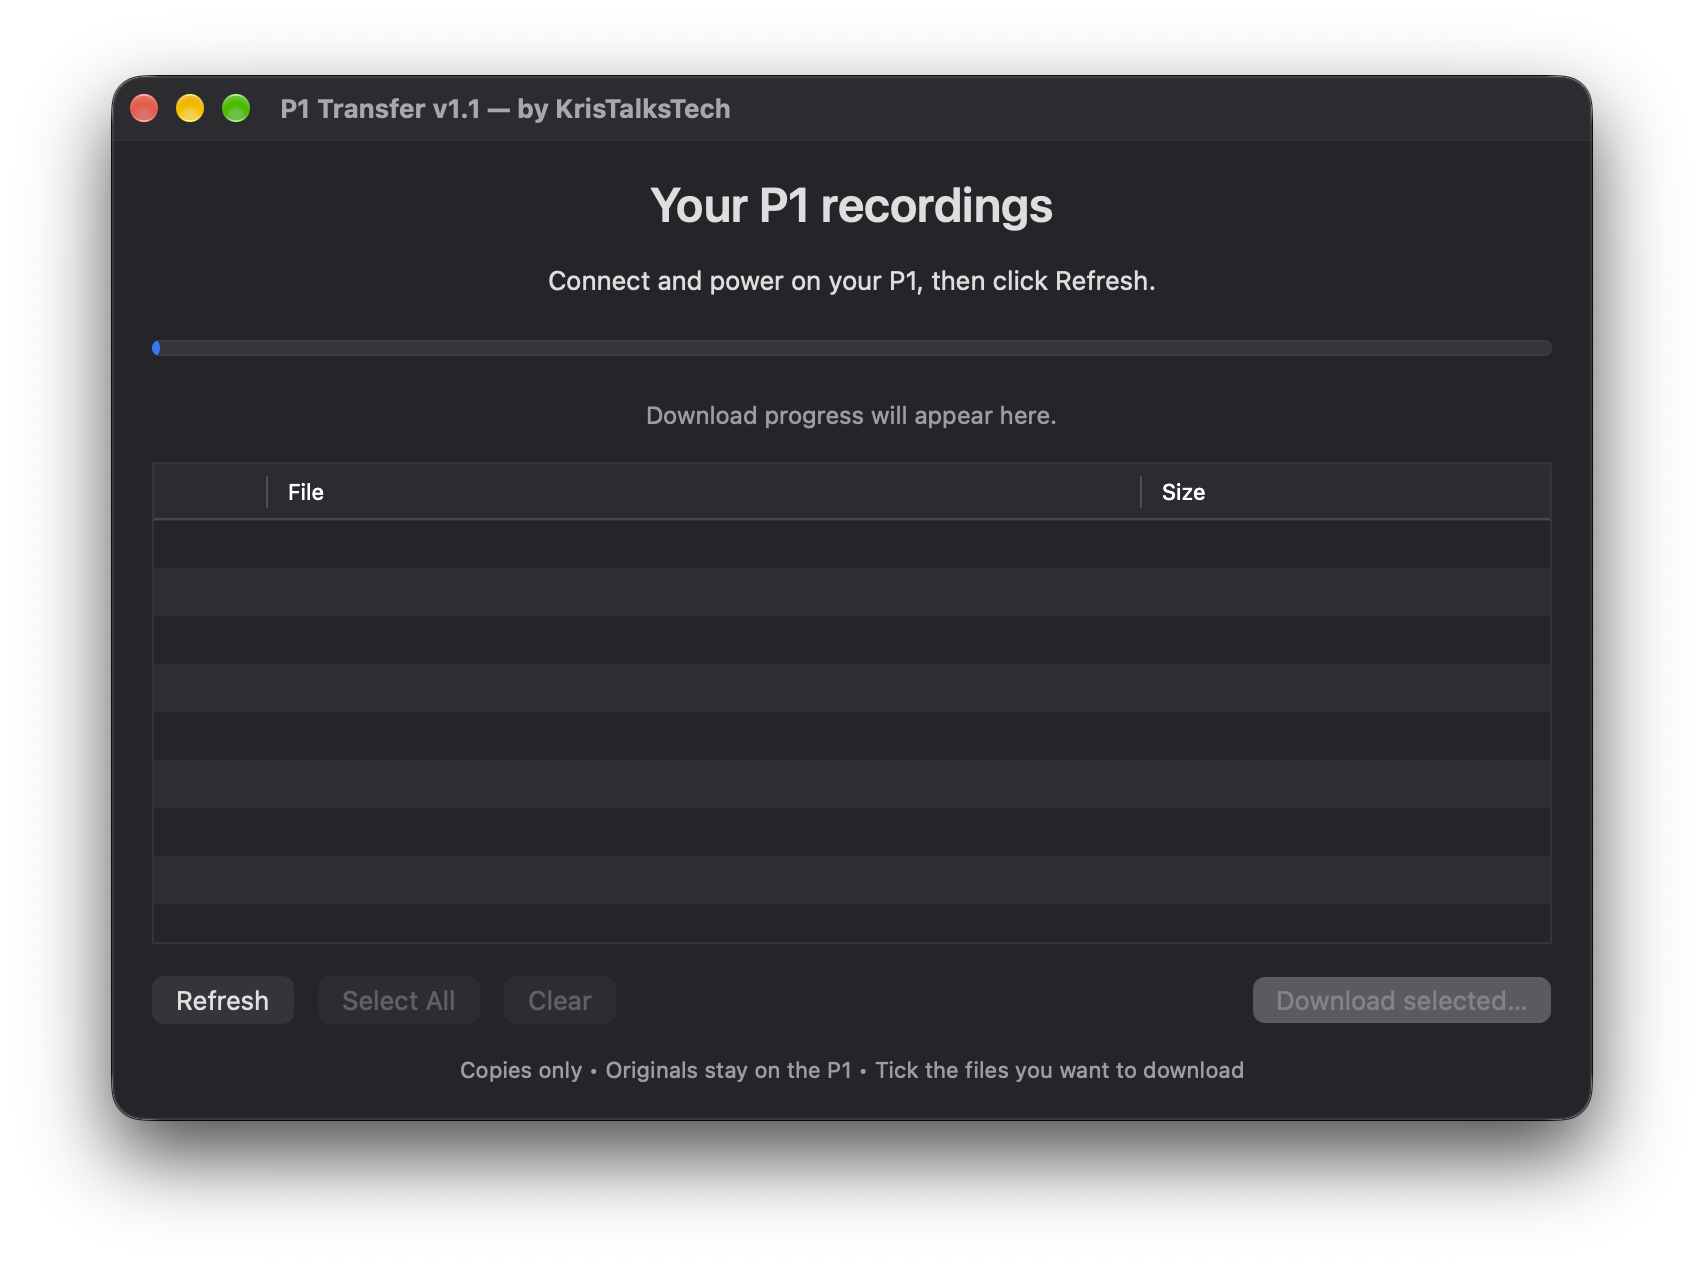
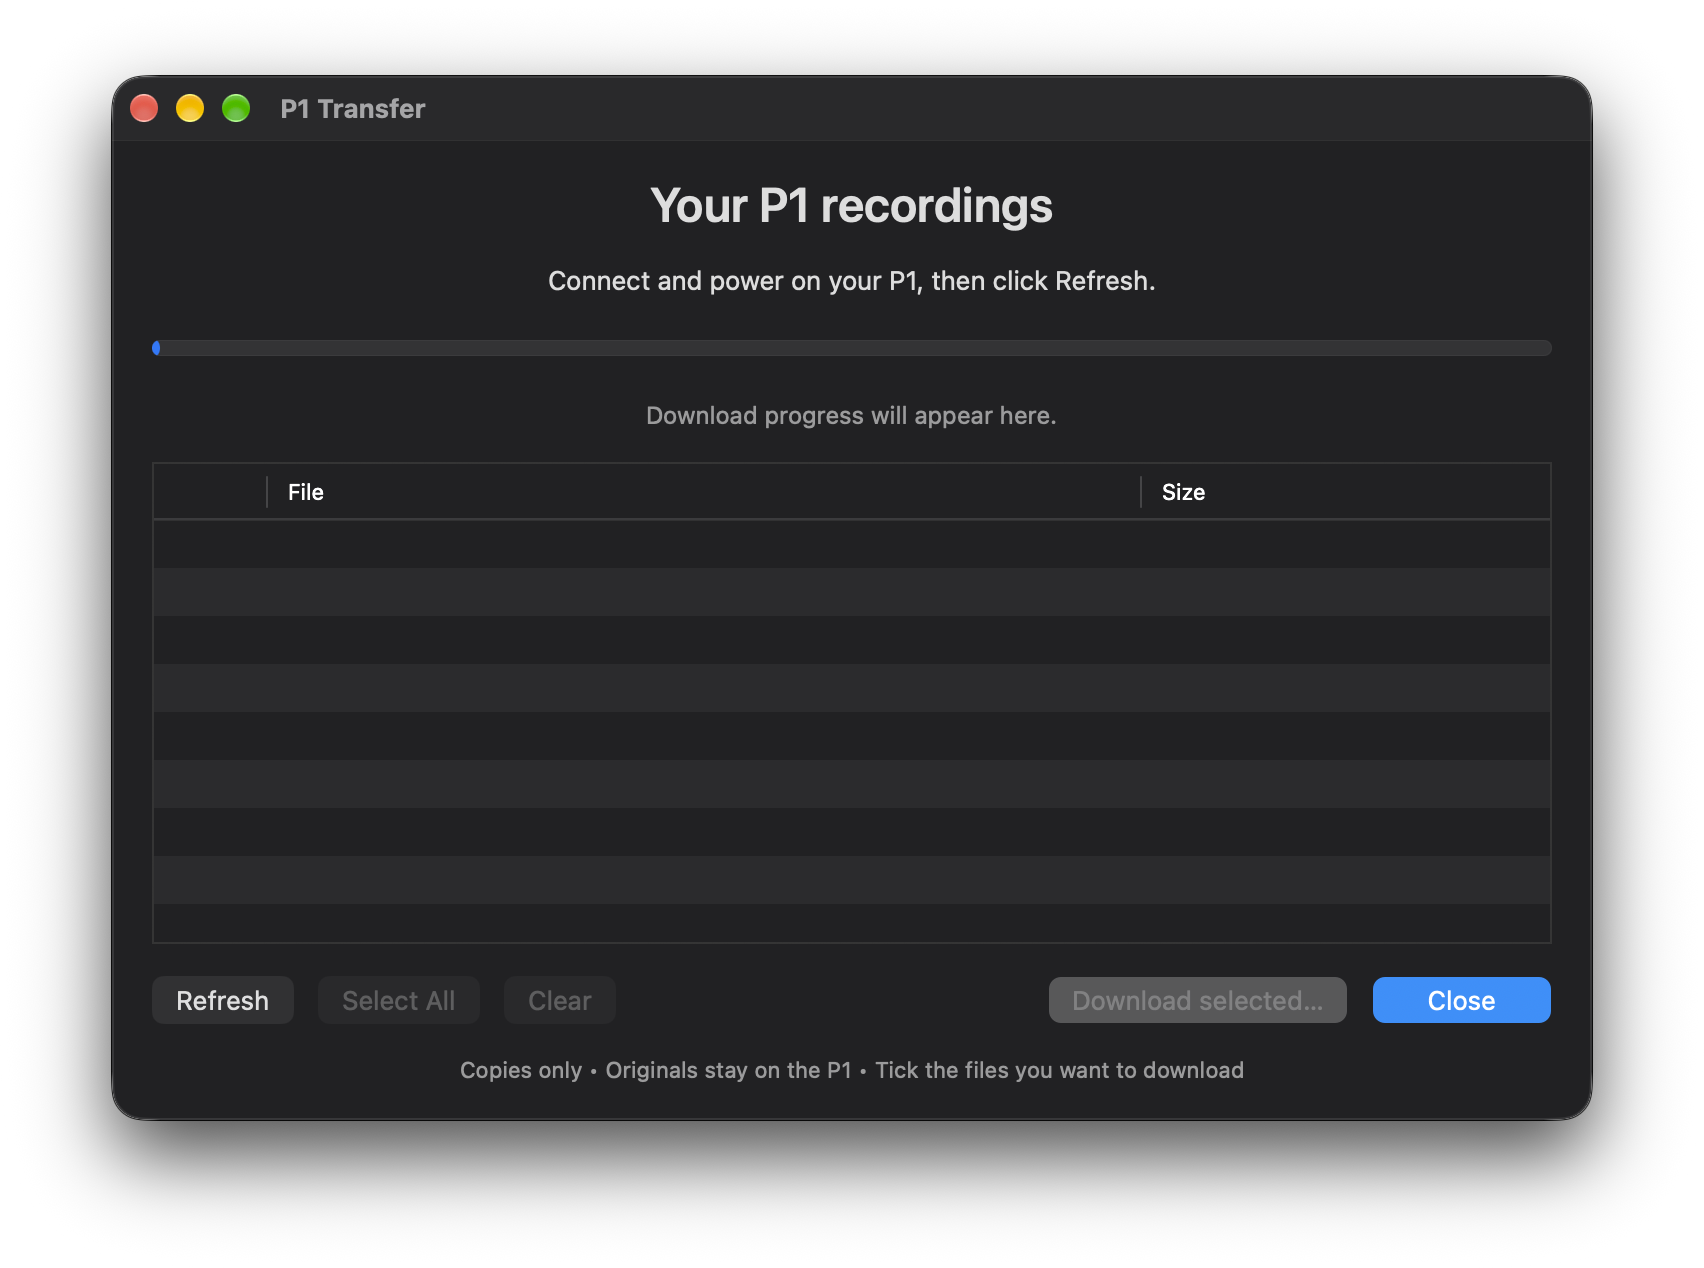
Refresh P1 Transfer v1.1 screenshot and installation documentation

Changed region(s): [[0.591, 0.7689, 0.9331, 0.8304], [0.2488, 0.0615, 0.4354, 0.0923]]

diff --git a/docs/INSTALLATION.md b/docs/INSTALLATION.md
@@ -1,19 +1,52 @@
-# Installation
+# Installing P1 Transfer
 
-## Packaged app
+## Requirements
 
-Download the app ZIP from GitHub Releases, extract it, and open the `.app`. You may move it into Applications. No Homebrew, libmtp installation, Xcode or Terminal commands are needed for the packaged app.
+- Apple Silicon Mac (M1 or newer)
+- macOS 27.0 or later
+- BETAFPV P1 receiver and data-capable USB cable
 
-The current release targets Apple Silicon and macOS 27.0 or newer. It is locally/ad-hoc signed, not signed with an Apple Developer ID and not notarised.
+The application includes libmtp and libusb. You do not need Homebrew, Xcode, or additional drivers.
 
-macOS can display an unidentified-developer warning. Only proceed if you trust the source and have verified that you downloaded the intended release. Apple describes its per-app approval process at https://support.apple.com/102445. Do not disable Gatekeeper or system-wide protections. If your Mac is managed by an organisation, its policy may prevent opening the app.
+## Recommended: macOS installer (.pkg)
 
-## Receiver
+1. Open the [P1 Transfer v1.1 release](https://github.com/krisgleave/p1-transfer/releases/tag/v1.1).
+2. Download `P1-Transfer-1.1-arm64.pkg`.
+3. Quit any running copy of P1 Transfer.
+4. Double-click the downloaded package and follow the installation instructions.
+5. Open **P1 Transfer** from Applications.
+6. Connect and power on your P1, then click Refresh if necessary.
 
-Connect the receiver using a data-capable USB cable and power it as required by its hardware manual. Quit competing MTP apps before opening P1 Transfer. The app does not mount a disk in Finder; use its checkbox list and Download button.
+The installed application is always named **P1 Transfer.app**, without a version number in its name.
 
-After the first successful connection, click Refresh manually when swapping or reconnecting a receiver.
+## Alternative: ZIP download
 
-## Updates
+Download `P1-Transfer-1.1-macOS-arm64.zip`, extract it and move **P1 Transfer.app** into Applications.
 
-Finish any current download, quit the old version and replace it with the new app. Do not replace an app while it is copying files. Destination files and recordings on the P1 are not removed by replacing the app.
+If you have an older application named `P1 Transfer v1.1.app`, remove that older copy after confirming the new version works.
+
+## macOS security warning
+
+P1 Transfer is ad-hoc signed but is not Apple Developer ID signed or notarised. macOS may prevent it from opening automatically.
+
+Only proceed if you trust the downloaded application. Use **System Settings > Privacy & Security > Open Anyway** when macOS offers that option, following [Apple's guidance](https://support.apple.com/102445).
+
+Do not disable Gatekeeper or other system-wide security protections.
+
+## Transferring recordings
+
+1. Quit competing MTP applications such as OpenMTP, MacDroid or Android File Transfer.
+2. Connect and power on the P1 using a data-capable USB cable.
+3. Open P1 Transfer and select your recordings.
+4. Click **Download selected…** and choose a destination.
+5. Use **Refresh** after reconnecting the receiver.
+
+Downloads are copied into timestamped folders. Originals remain on the receiver.
+
+The blue **Close** button at the bottom-right closes the application.
+
+## Updating
+
+Finish any active downloads before updating. Quit the application, then install the new package or replace the existing app.
+
+Your downloaded recordings are not deleted by updating the application.

diff --git a/RELEASE_NOTES.md b/RELEASE_NOTES.md
@@ -1,29 +1,38 @@
-# P1 Transfer 1.1
+# P1 Transfer v1.1
 
-- Consistent outer margins around the progress, file list and action buttons.
-- Blue download button when files are selected; disabled when nothing can be downloaded.
-- Title bar: P1 Transfer v1.1 — by KrisTalksTech.
+P1 Transfer is a free macOS utility for copying BETAFPV P1 recordings and SRT files without Windows or separate MTP software.
 
-The standalone dependencies, copy-only behaviour and file naming are unchanged. Apple Silicon, macOS 27.0 or later. Locally signed, not Apple-notarized.
+## Updated interface
 
-# P1 Transfer 1.0 — first community release
+- Simplified window title: **P1 Transfer**
+- Blue **Close** button positioned at the bottom-right
+- Consistent spacing around the interface
+- Blue download button when recordings are selected
+- Standard application name: **P1 Transfer.app**
 
-A free, standalone Mac utility for downloading BETAFPV P1 recordings and SRT sidecar files.
+## Installation
 
-Created by **Kris Gleave (KrisTalksTech)**, with implementation assistance from OpenAI Codex.
+Download the `.pkg` installer from [GitHub Releases](https://github.com/krisgleave/p1-transfer/releases/tag/v1.1) and follow the macOS installer.
 
-## Included
+A standalone ZIP is also available.
 
-- Native checkbox list with Select All and Clear.
-- Batch download percentage, average speed and estimated time remaining.
-- Timestamped destination folders using `P1-recordings-yyyyMMdd-HHmmss`.
-- Copies only; original recordings stay on the P1.
-- Bundled libmtp and libusb, with their licences and corresponding source archives.
+Requires Apple Silicon and macOS 27.0 or later. The app bundles libmtp and libusb, so no additional drivers or Homebrew installation are needed.
 
-## Requirements and status
+The app is ad-hoc signed and not Apple notarised. See [installation instructions](docs/INSTALLATION.md) for macOS security guidance.
 
-**Apple Silicon, macOS 27.0 or newer.** No Homebrew, Xcode, separate drivers or Terminal commands required for end users. Ad-hoc signed, not Apple Developer ID signed or notarised; macOS may require explicit per-app approval.
+## Features
 
-Tested during development on an M4 Pro MacBook Pro and a P1 reporting BETAFPV P1 Rev A. Community feedback on other P1 variants is welcome. This is an independent utility, not an official BETAFPV product.
+- Native macOS interface
+- Select individual recordings or all files
+- Download MP4 recordings and SRT sidecar files
+- Progress reporting and estimated remaining time
+- Timestamped download folders
+- Copy-only transfers; originals remain on the P1
 
-Close other MTP apps before connecting. The current transfer timeout is 10 minutes per file. See README for limits and troubleshooting.
+## Screenshot
+
+![P1 Transfer v1.1](assets/screenshot-v1.1.png)
+
+## Previous release
+
+Version 1.0 introduced standalone P1 recording downloads, bundled dependencies and the original macOS interface.

diff --git a/README.md b/README.md
@@ -12,9 +12,9 @@ P1 Transfer is a small, open-source macOS app that copies video recordings and a
 
 ## Screenshot
 
-![P1 Transfer v1.1 with updated spacing and title bar](assets/screenshot-v1.1.png)
+![P1 Transfer v1.1 with blue Close button](assets/screenshot-v1.1.png)
 
-The download button turns blue when files are selected and downloading is available.
+The download button turns blue when files are selected. The blue Close button remains available at the bottom-right.
 
 ## Requirements
 
@@ -30,8 +30,8 @@ The app was tested during development on an M4 Pro MacBook Pro with a P1 reporti
 
 ## Download and use
 
-1. Download the app ZIP from **Releases**, rather than GitHub's **Code → Download ZIP** source archive.
-2. Unzip it and move **P1 Transfer** to Applications, if desired.
+1. Download the `.pkg` installer from **Releases** and install **P1 Transfer** into Applications. Alternatively, download the standalone ZIP and copy the app into Applications.
+2. Open **P1 Transfer** from Applications. See [installation instructions](docs/INSTALLATION.md).
 3. Quit other MTP apps, including OpenMTP, MacDroid and Android File Transfer.
 4. Connect and power on the P1, then open P1 Transfer. It scans on launch and watches for a connection until one succeeds.
 5. Tick the files you want, or use **Select All** and **Clear**.

diff --git a/CHANGELOG.md b/CHANGELOG.md
@@ -1,12 +1,13 @@
 # Changelog
 
-## 1.1 — 2026-11-06
+## 1.1 — updated 2026-11-23
 
-- Consistent outer margins around the progress, file list and action controls.
-- Blue primary download button when files are selected.
-- Window title: P1 Transfer v1.1 — by KrisTalksTech.
-- Transfer behaviour and bundled MTP tools remain unchanged.
-
+- Added a native macOS `.pkg` installer.
+- Simplified window title to P1 Transfer.
+- Added a blue Close button at the bottom-right.
+- Maintained the unversioned P1 Transfer.app name.
+- Updated screenshot and installation instructions.
+- Retained existing transfer functionality and bundled MTP dependencies.
 
 ## 1.0 — 2026-11-04
 
